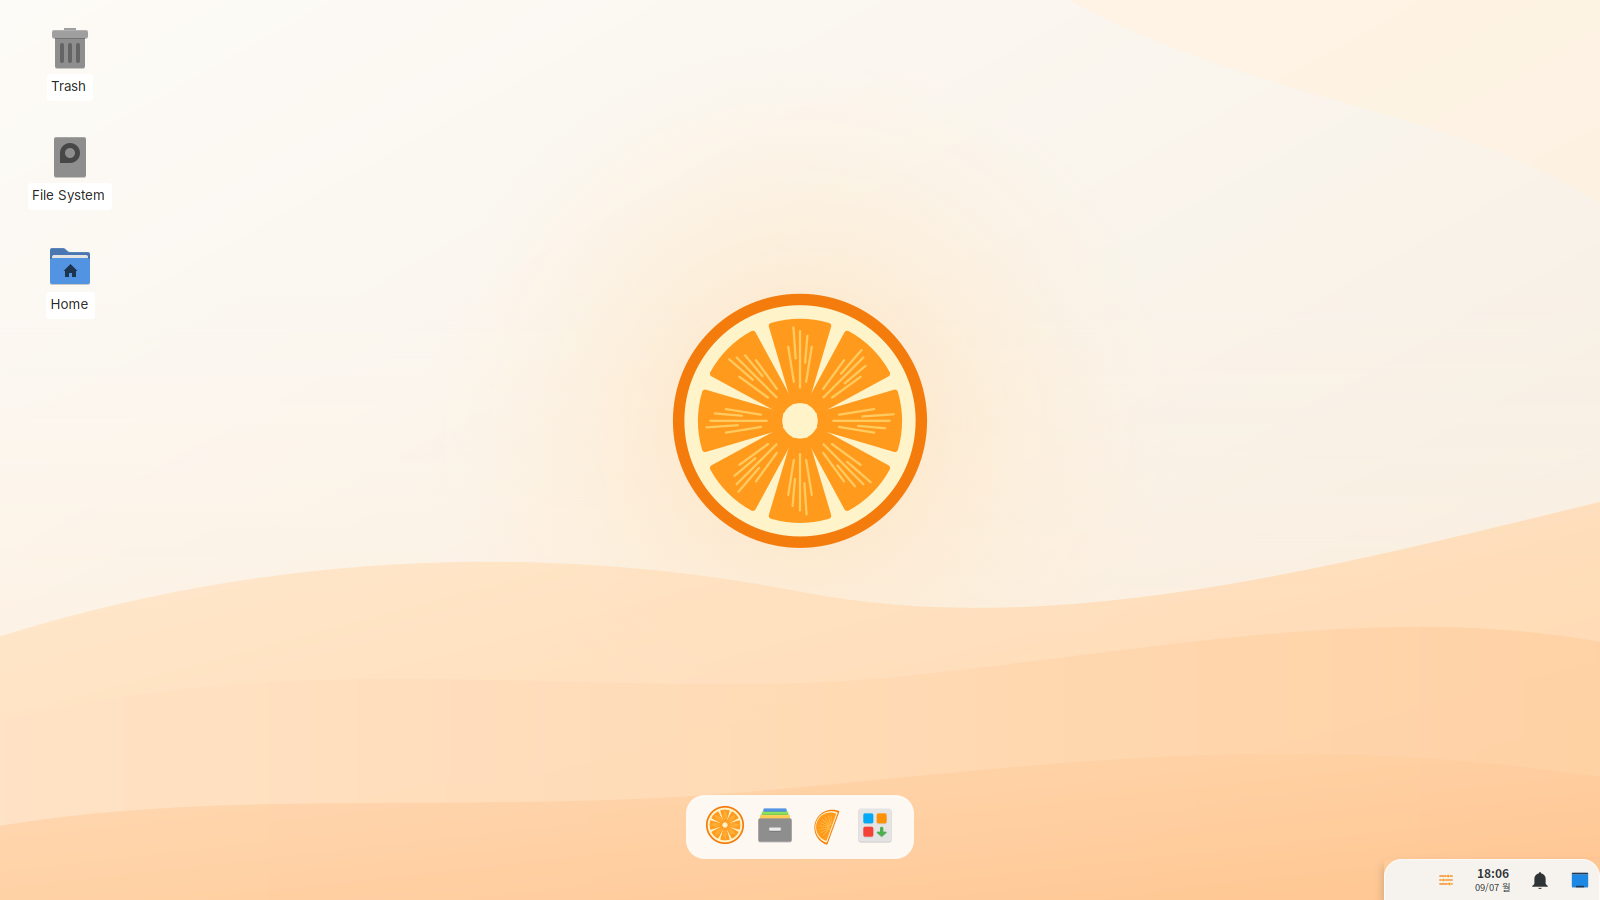
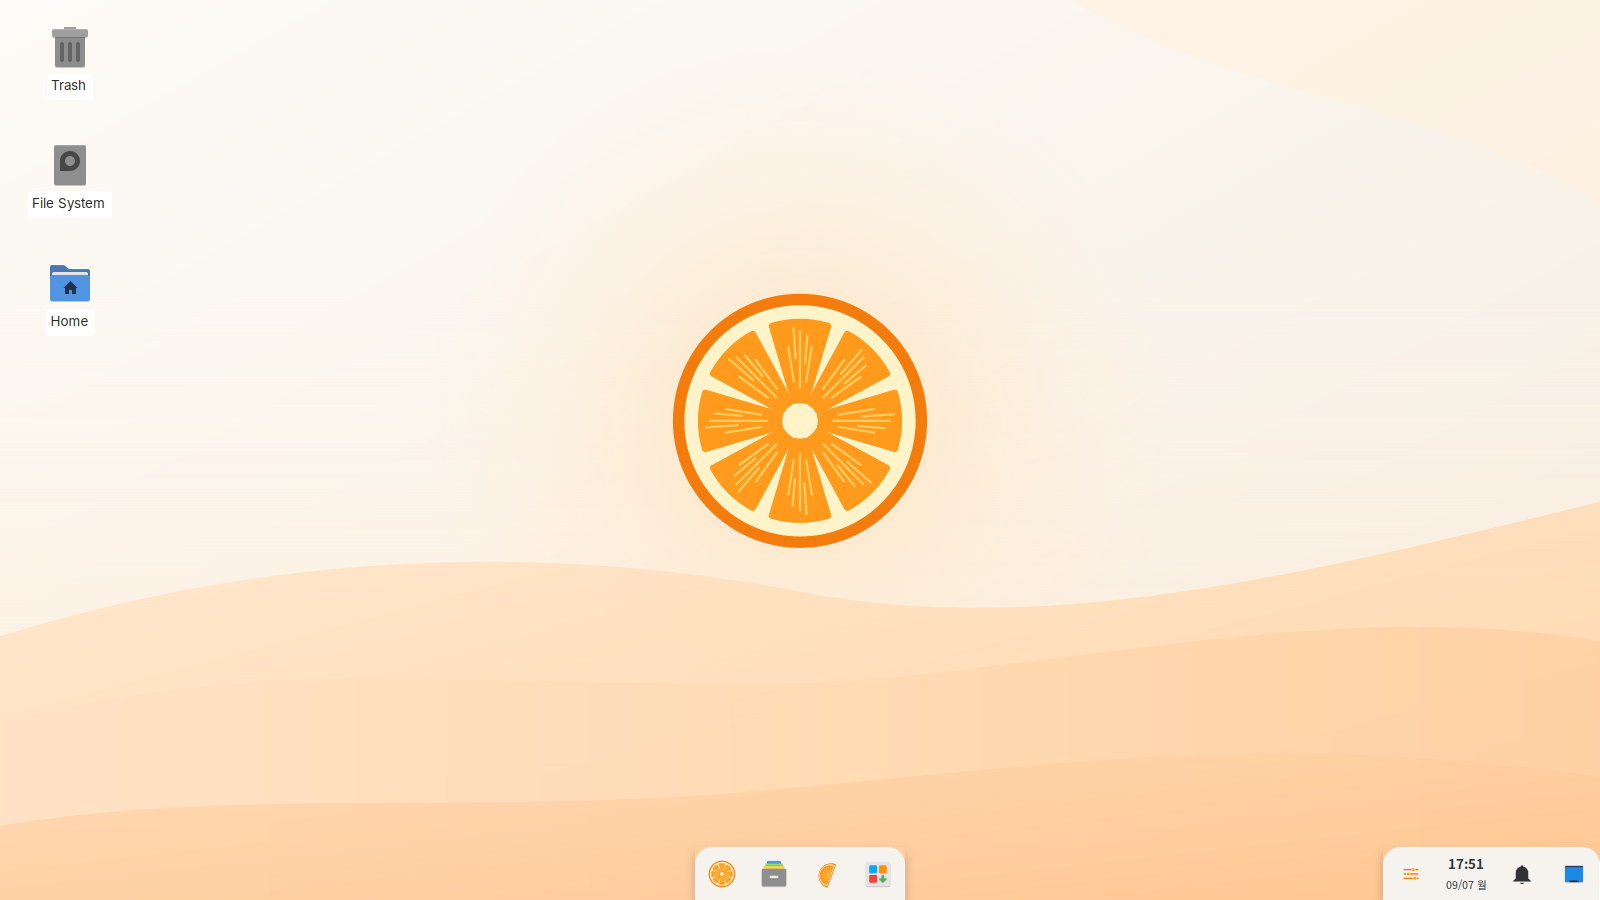
Plank 독 되돌림: 윈도우 11 식 가운데 독(xfce4-panel + docklike) + 오른쪽 빠른 설정으로 복귀
Plank 는 떠 있는 모양은 냈지만 상주 메모리 약 50 MB 와 별도 프로세스가
들어가고, 시작 메뉴를 숨긴 플러그인으로 우회해야 했다. 바닥에 붙고
위 모서리만 둥근 xfce4-panel 독(docklike)으로 되돌린다. 창 모서리 픽스맵
수정과 빠른 설정·picom·다크 모드는 그대로다.

This reverts commit 99dd33b2a7e9a48bb876b8e38e3af552869bf5e2.

Claude-Session: https://claude.ai/code/session_01DVt4fBqjhd9ckGmgeBjH8k

diff --git a/base/fedora/root/etc/skel/.config/gtk-3.0/gtk.css b/base/fedora/root/etc/skel/.config/gtk-3.0/gtk.css
@@ -68,7 +68,8 @@ XfdesktopIconView.view:selected, .XfdesktopIconView.view:selected, XfdesktopIcon
 .xfce4-panel button, .xfce4-panel button.flat, .xfce4-panel button.toggle { border-radius: 12px; border: 1px solid transparent; background-color: transparent; background-image: none; box-shadow: none; padding: 4px 8px; }
 .xfce4-panel button:hover { background-color: alpha(@kiyu_accent, 0.12); }
 .xfce4-panel button:checked, .xfce4-panel button:active { background-color: alpha(@kiyu_accent, 0.20); }
-.xfce4-panel #whiskermenu-button { padding: 0; min-width: 1px; opacity: 0; }  /* 독/Super 키 팝업 전용, 버튼은 숨김 */
+.xfce4-panel #whiskermenu-button { border-radius: 12px; }
+.xfce4-panel .docklike-button, .xfce4-panel #docklike button { padding: 4px 6px; }
 
 /* 시작 메뉴 */
 #whiskermenu-window, #whiskermenu-window.background { border-radius: 18px; border: 1px solid alpha(@theme_base_color, 0.7); background-color: @kiyu_glass; }

diff --git a/apps/kiyu-control/kiyu-control.py b/apps/kiyu-control/kiyu-control.py
@@ -20,7 +20,7 @@ from gi.repository import Gdk, GLib, Gtk  # noqa: E402
 
 STATE_DIR = os.path.join(GLib.get_user_config_dir(), "kiyu")
 MARGIN = 10
-PANEL_H = 40 + MARGIN
+PANEL_H = 52 + MARGIN
 
 
 def run(cmd, timeout=3):

diff --git a/docs/architecture.md b/docs/architecture.md
@@ -68,13 +68,8 @@ Recommends 를 끄고 빌드하므로(`--apt-recommends false`) 이미지가 작
 ### 5b. 룩앤필: 사양을 먹지 않는 "트렌디"
 
 - **배경**: 크림 종이 위 파스텔 곡선(새벽 언덕)과 귤 단면 로고. 정적 PNG 한 장이라 비용 0.
-- **독**: 가운데 떠 있는 독은 Plank (`plank` 패키지, `/etc/dconf/db/local.d/00-kiyu-plank`, 테마 `/usr/share/plank/themes/kiyu{,-dark}`).
-  고정 앱 + 실행 중 창을 한 아이콘으로, 실행 중이면 아래 점 (윈도우 작업표시줄과 같은 동작). 첫 아이콘(kiyu 로고)이 시작 메뉴.
-  xfce4-panel 은 화면 가장자리에서 띄우는 기능이 없어 독으로 쓰지 않는다. Plank 는 약 30~50 MB 상주.
-- **작업표시줄 알약**: 오른쪽 아래 xfce4-panel 하나 (트레이·빠른 설정·시계·알림·바탕화면 보기). whiskermenu 플러그인은
-  버튼을 숨긴 채 팝업 전용으로 들어 있다 (`xfce4-popup-whiskermenu --pointer` 가 독의 로고 클릭과 Super 키에서 호출).
+- **작업표시줄**: 가운데 독(시작 + 고정/실행 앱, docklike) + 오른쪽 알약(트레이·빠른 설정·시계·알림). 윈도우 11 배치에 macOS 독 느낌.
   배경은 xfconf 가 아니라 `~/.config/gtk-3.0/gtk.css` 의 `.xfce4-panel` 이 그려서 테마 색(다크 모드)을 따라간다.
-  Plank 는 이 알약이 예약한 공간 위에 놓이므로 자연스럽게 바닥에서 떠 있다.
 - **창**: xfwm4 자체 컴포지팅 대신 picom(xrender) — 둥근 모서리 12px, 부드러운 그림자, 짧은 페이드. CPU 1~3%.
   유리 블러(glx, dual_kawase)는 GPU 없는 기기에서 비싸므로 기본 OFF, 빠른 설정 "효과" 스위치로 켠다 (`/usr/lib/kiyu/compositor`).
 - **빠른 설정** (`apps/kiyu-control`): Wi-Fi/블루투스/다크 모드/효과 토글, 소리·밝기, 배터리. 상주하지 않는 Python GTK 창(열려 있을 때만 ~20 MB).

diff --git a/docs/roadmap.md b/docs/roadmap.md
@@ -3,9 +3,9 @@
 ## 0.2 – Fedora + kiyu 룩 (진행 중)
 
 - [x] Fedora 44 + kiwi-ng 라이브 ISO, BIOS/UEFI(Secure Boot) 부팅, SELinux enforcing, nftables
-- [x] 탱자 브라우저 (WebKitGTK), Super 키 시작 메뉴
-- [x] 새벽 배경 + Plank 떠 있는 독 + 오른쪽 알약 + picom 둥근 창 + 빠른 설정(다크 모드·효과) — Xvfb 프리뷰 검증, ISO 검증 대기
-- [ ] 실제 ISO 에서 picom/빠른 설정/Plank 확인, 메모리 재측정
+- [x] 탱자 브라우저 (WebKitGTK), Super 키 시작 메뉴, docklike 작업표시줄
+- [x] 새벽 배경 + 가운데 독 + 오른쪽 알약 + picom 둥근 창 + 빠른 설정(다크 모드·효과) — Xvfb 프리뷰 검증, ISO 검증 대기
+- [ ] 실제 ISO 에서 picom/빠른 설정/docklike 확인, 메모리 재측정
 - [ ] 바탕화면 시계·달력 위젯(선택), 통합 검색 런처
 
 ## 0.1 – 스캐폴드 (현재)
@@ -39,7 +39,7 @@ Xvfb 프리뷰에서 확인된 것:
 - [x] 탱자 브라우저 v0 (WebKitGTK): 탭·주소창·검색·즐겨찾기·다운로드, 샌드박스·ITP·추적기 차단·권한 기본 거부
 - [x] kiyu-superkey (Super 탭 → 시작 메뉴, Super+화살표 유지) — Xvfb 에서 검증
 - [ ] Fedora ISO 부팅 테스트: 자동 로그인, SELinux enforcing, firewalld 존, dnf-automatic, 메모리
-- [ ] Plank 독 기본값(dconf 시스템 DB, skel 런처) 실제 ISO 에서 확인
+- [ ] docklike 작업표시줄 기본값(고정 앱 목록 `docklike-2.rc` 의 pinned 경로 형식) 실제 ISO 에서 확인
 - [ ] Anaconda 설치 흐름 (BIOS/UEFI, LUKS)
 - [ ] RPM Fusion 코덱 설치 도우미, 릴리스 업그레이드 도우미
 - [ ] 브라우저 v1: Vala/Rust 이식, EasyPrivacy 필터 자동 갱신, 비밀번호 관리자, WebRTC UI

diff --git a/docs/windows-user-guide.md b/docs/windows-user-guide.md
@@ -28,7 +28,7 @@
 
 | 윈도우 | kiyu | 비고 |
 |---|---|---|
-| 작업표시줄 고정 | 작업표시줄 아이콘 우클릭 > 고정 | 독 아이콘 우클릭 > 독에 고정. 고정 앱과 실행 중 창이 한 아이콘, 실행 중이면 아래 점 표시 (Plank) |
+| 작업표시줄 고정 | 작업표시줄 아이콘 우클릭 > 고정 | 고정 앱과 실행 중 창이 한 버튼, 실행 중이면 아래 점 표시 (docklike) |
 | 파일 탐색기 | Thunar | 경로 표시줄, 주소 직접 입력, 휴지통, 외장 드라이브 자동 마운트, 윈도우 NTFS 파티션 읽기/쓰기 |
 | Edge | 탱자 브라우저 | 추적기 차단·샌드박스 기본. Chromium 전용 사이트는 "Chromium 설치" 안내 |
 | 메모장 | Mousepad | |
